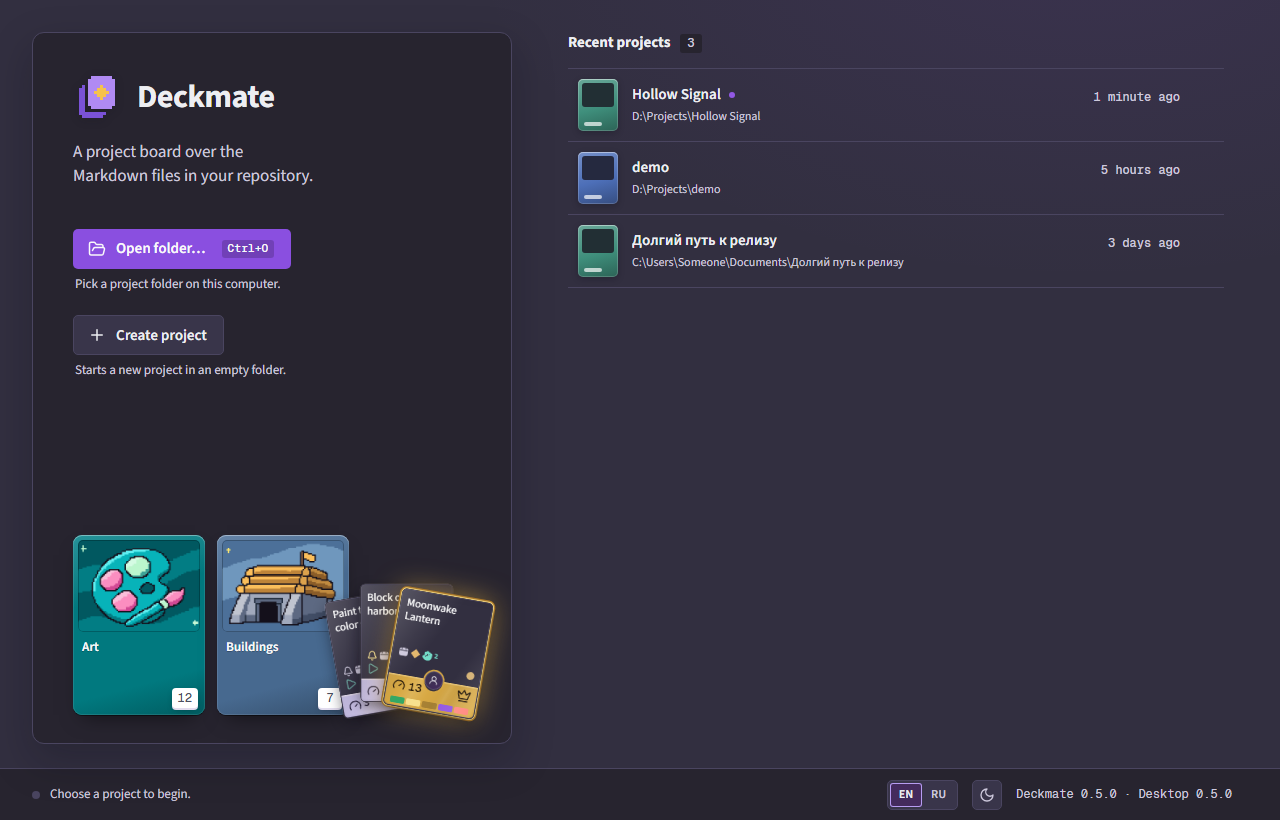
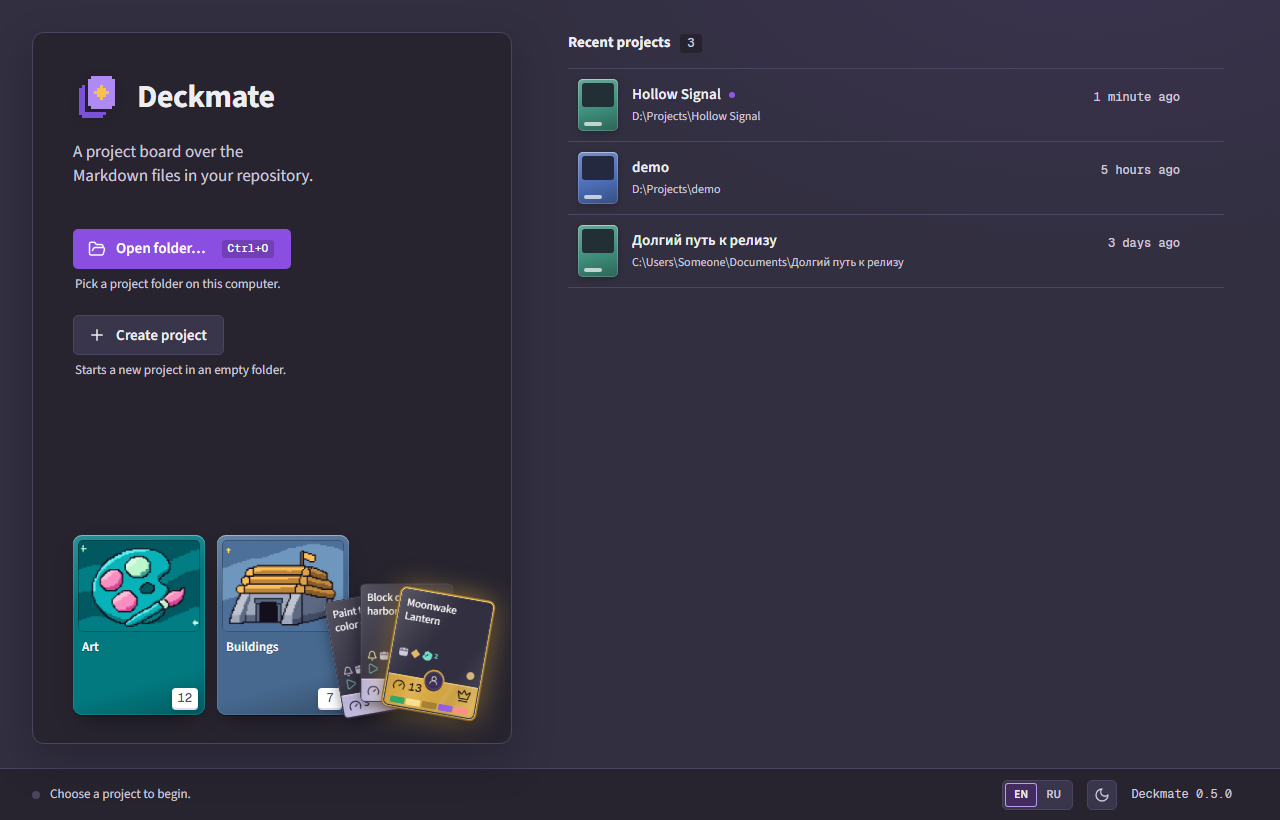
feat(desktop): What's new page for updates
The shell opens whats-new.html after an update and from Help. It asks the
shell for the changelog (whats_new_get), shows the sections newer than
the previous version up to the running one, newest first, renders a safe
Markdown subset with textContent only, and links to all changes on
GitHub. English and Russian texts share keys; outside Tauri a mock keeps
the page usable for review captures. The start screen and this page share
tokens.css. The README start-screen shot shows the single version.

Changed region(s): [[0.6875, 0.9451, 0.9375, 1.0]]

diff --git a/desktop/launcher/whats-new.js b/desktop/launcher/whats-new.js
@@ -1,0 +1,109 @@
+(() => {
+  'use strict';
+  const texts = {
+    en: { heading: version => `What's new in Deckmate ${version}`, since: version => `Since ${version}`, all: 'All changes on GitHub', empty: 'No changes found for this version range.', error: 'Could not load the changelog.' },
+    ru: { heading: version => `Что нового в Deckmate ${version}`, since: version => `Начиная с версии ${version}`, all: 'Все изменения на GitHub', empty: 'Для этого диапазона версий изменений не найдено.', error: 'Не удалось загрузить список изменений.' },
+  };
+
+  function parseChangelog(markdown) {
+    const sections = [];
+    let current = null;
+    for (const line of markdown.split(/\r?\n/)) {
+      const heading = /^##\s+\[([^\]]+)\](?:\s*-\s*(\d{4}-\d{2}-\d{2}))?\s*$/.exec(line);
+      if (heading) {
+        current = { version: heading[1], date: heading[2] || '', lines: [] };
+        sections.push(current);
+      } else if (/^##\s/.test(line)) current = null;
+      else if (current) current.lines.push(line);
+    }
+    return sections;
+  }
+
+  function versionParts(version) {
+    const match = /^(0|[1-9]\d*)\.(0|[1-9]\d*)\.(0|[1-9]\d*)(?:\+[0-9A-Za-z.-]+)?$/.exec(version);
+    return match ? match.slice(1, 4).map(BigInt) : null;
+  }
+  function compare(a, b) {
+    for (let i = 0; i < 3; i++) if (a[i] !== b[i]) return a[i] > b[i] ? 1 : -1;
+    return 0;
+  }
+  function pickSections(sections, from, to) {
+    const upper = versionParts(to);
+    const lower = from === null ? null : versionParts(from);
+    if (!upper || (from !== null && !lower)) return [];
+    return sections.map(section => ({ section, version: versionParts(section.version) }))
+      .filter(item => item.version && compare(item.version, upper) <= 0 && (lower ? compare(item.version, lower) > 0 : compare(item.version, upper) === 0))
+      .sort((a, b) => compare(b.version, a.version)).map(item => item.section);
+  }
+
+  function safeLink(url) {
+    try { const parsed = new URL(url); return parsed.protocol === 'https:' || parsed.protocol === 'http:'; } catch { return false; }
+  }
+  function renderInline(parent, text, doc) {
+    const pattern = /\*\*([^*]+)\*\*|`([^`]+)`|\[([^\]]+)\]\(([^\s)]+)\)/g;
+    let last = 0;
+    for (const match of text.matchAll(pattern)) {
+      parent.append(doc.createTextNode(text.slice(last, match.index)));
+      if (match[3] && !safeLink(match[4])) parent.append(doc.createTextNode(match[0]));
+      else {
+        const node = doc.createElement(match[1] ? 'strong' : match[2] ? 'code' : 'a');
+        node.textContent = match[1] || match[2] || match[3];
+        if (match[3]) node.href = match[4];
+        parent.append(node);
+      }
+      last = match.index + match[0].length;
+    }
+    parent.append(doc.createTextNode(text.slice(last)));
+  }
+  function renderSection(section, doc = document) {
+    const article = doc.createElement('section');
+    article.className = 'release';
+    const header = doc.createElement('div'); header.className = 'release-header';
+    const title = doc.createElement('h2'); title.textContent = section.version; header.append(title);
+    if (section.date) { const date = doc.createElement('time'); date.dateTime = section.date; date.textContent = section.date; header.append(date); }
+    article.append(header);
+    let list = null;
+    for (const line of section.lines) {
+      const heading = /^###\s+(.+)$/.exec(line);
+      const bullet = /^\s*[-*]\s+(.+)$/.exec(line);
+      if (heading) { list = null; const node = doc.createElement('h3'); renderInline(node, heading[1], doc); article.append(node); }
+      else if (bullet) {
+        if (!list) { list = doc.createElement('ul'); article.append(list); }
+        const item = doc.createElement('li'); renderInline(item, bullet[1], doc); list.append(item);
+      } else if (line.trim()) { list = null; const node = doc.createElement('p'); renderInline(node, line, doc); article.append(node); }
+    }
+    return article;
+  }
+  globalThis.DeckmateWhatsNew = { parseChangelog, pickSections, renderSection };
+
+  if (typeof window === 'undefined' || typeof document === 'undefined') return;
+  const mock = () => {
+    let language = 'en';
+    try { if (localStorage.getItem('deckmate-language') === 'ru') language = 'ru'; } catch {}
+    const changelog = language === 'ru' ? `## [0.5.0] - 2026-11-09\n### Добавлено\n- **Пространства.** Меняйте порядок пространств в заголовке или настройках.\n- **Hero вручную.** Отмечайте Hero без задач как завершённого.\n### Изменено\n- **Doc Cards.** Карточка документа выглядит как страница.\n## [0.4.0] - 2026-11-09\n### Добавлено\n- **Шаблоны на русском.** Шаблоны Journey и проектов теперь переведены.` : `## [0.5.0] - 2026-11-09\n### Added\n- **Spaces.** Reorder spaces in the header or space settings.\n- **Hero done by hand.** Mark a Hero without tasks as done.\n### Changed\n- **Doc Cards.** A Doc tile reads as a page.\n## [0.4.0] - 2026-11-09\n### Added\n- **Templates in Russian.** Journey and project templates now have Russian titles.`;
+    return { language, from: '0.3.0', to: '0.5.0', changelog, releasesUrl: 'https://github.com/pierkulakov/deckmate/releases' };
+  };
+  document.addEventListener('keydown', event => { if (event.key === 'Escape') window.close(); });
+  (async () => {
+    const root = document.getElementById('whats-new');
+    try {
+      const data = window.__TAURI_INTERNALS__ ? await window.__TAURI_INTERNALS__.invoke('whats_new_get') : mock();
+      const language = data.language === 'ru' ? 'ru' : 'en';
+      const t = texts[language];
+      document.documentElement.lang = language;
+      document.getElementById('heading').textContent = t.heading(data.to);
+      document.title = t.heading(data.to);
+      const since = document.getElementById('since');
+      if (data.from !== null) { since.textContent = t.since(data.from); since.hidden = false; }
+      const link = document.getElementById('releases');
+      link.textContent = t.all;
+      if (safeLink(data.releasesUrl)) link.href = data.releasesUrl;
+      const content = document.getElementById('content');
+      const sections = pickSections(parseChangelog(data.changelog), data.from, data.to);
+      if (sections.length) content.replaceChildren(...sections.map(section => renderSection(section)));
+      else { const empty = document.createElement('p'); empty.textContent = t.empty; content.append(empty); }
+    } catch {
+      document.getElementById('heading').textContent = texts.en.error;
+    } finally { root.removeAttribute('aria-busy'); }
+  })();
+})();

diff --git a/tools/launcher-capture.ts b/tools/launcher-capture.ts
@@ -12,9 +12,10 @@ import { openHeadlessBrowser, type HeadlessPage } from './layout-capture.ts';
 
 const here = path.dirname(fileURLToPath(import.meta.url));
 const pageUrl = pathToFileURL(path.join(here, '..', 'desktop', 'launcher', 'index.html')).href;
+const whatsNewUrl = pathToFileURL(path.join(here, '..', 'desktop', 'launcher', 'whats-new.html')).href;
 const output = path.join(here, '..', '.deckmate', 'launcher-shots');
 
-interface Frame { name: string; theme: 'dark' | 'light'; lang: 'en' | 'ru'; size: [number, number]; state?: 'empty' | 'error' | 'hover-row' | 'focus-open' | 'focus-row' }
+interface Frame { name: string; theme: 'dark' | 'light'; lang: 'en' | 'ru'; size: [number, number]; page?: 'whats-new'; state?: 'empty' | 'error' | 'hover-row' | 'focus-open' | 'focus-row' }
 
 const frames: Frame[] = [
   { name: 'dark-en-1280', theme: 'dark', lang: 'en', size: [1280, 820] },
@@ -28,6 +29,10 @@ const frames: Frame[] = [
   { name: 'dark-en-focus-open', theme: 'dark', lang: 'en', size: [1280, 820], state: 'focus-open' },
   { name: 'dark-en-focus-row', theme: 'dark', lang: 'en', size: [1280, 820], state: 'focus-row' },
   { name: 'light-ru-hover-row', theme: 'light', lang: 'ru', size: [1280, 820], state: 'hover-row' },
+  { name: 'whats-new-dark-en', theme: 'dark', lang: 'en', size: [760, 680], page: 'whats-new' },
+  { name: 'whats-new-dark-ru', theme: 'dark', lang: 'ru', size: [760, 680], page: 'whats-new' },
+  { name: 'whats-new-light-en', theme: 'light', lang: 'en', size: [760, 680], page: 'whats-new' },
+  { name: 'whats-new-light-ru', theme: 'light', lang: 'ru', size: [760, 680], page: 'whats-new' },
 ];
 
 // Every script sent to the page is a fixed string picked by key: nothing from the frame table is spliced into code.
@@ -80,16 +85,16 @@ async function pollPage(page: HeadlessPage, expression: string, timeoutMs: numbe
 }
 
 // The previous document may already report readyState 'complete', so a flag on the old page marks the wait as being for the new one.
-async function navigateAndWait(page: HeadlessPage, what: string): Promise<void> {
+async function navigateAndWait(page: HeadlessPage, what: string, url = pageUrl): Promise<void> {
   await page.evaluate('window.__deckmateCaptureOldDocument = true');
-  await page.send('Page.navigate', { url: pageUrl });
+  await page.send('Page.navigate', { url });
   const loaded = await pollPage(page, `!window.__deckmateCaptureOldDocument && document.readyState === 'complete'`, 10000);
   if (!loaded) throw new Error(`${what}: the launcher page did not finish loading within 10 s`);
 }
 
 // Waits until the launcher finished its first render and the fonts are loaded.
-async function waitForPageReady(page: HeadlessPage, frame: string): Promise<void> {
-  const busyCleared = await pollPage(page, `!document.getElementById('launcher').hasAttribute('aria-busy')`, 5000);
+async function waitForPageReady(page: HeadlessPage, frame: string, root = 'launcher'): Promise<void> {
+  const busyCleared = await pollPage(page, `!document.getElementById('${root}').hasAttribute('aria-busy')`, 5000);
   if (!busyCleared) throw new Error(`${frame}: the launcher is still aria-busy after 5 s`);
   await page.evaluate('document.fonts.ready.then(() => true)');
 }
@@ -114,12 +119,12 @@ async function captureFrame(page: HeadlessPage, frame: Frame, destination: strin
   // The settings are written on the loaded page; the reload below re-runs theme.js and launcher.js against them.
   await page.evaluate(scriptFor(THEME_SCRIPTS, frame.theme, 'theme'));
   await page.evaluate(scriptFor(LANG_SCRIPTS, frame.lang, 'language'));
-  await navigateAndWait(page, frame.name);
+  await navigateAndWait(page, frame.name, frame.page === 'whats-new' ? whatsNewUrl : pageUrl);
   await page.callFunction(INJECT_STYLE, NO_MOTION);
-  await waitForPageReady(page, frame.name);
+  await waitForPageReady(page, frame.name, frame.page === 'whats-new' ? 'whats-new' : 'launcher');
 
   const state = frame.state ?? 'list';
-  await page.evaluate(scriptFor(STATE_SCRIPTS, state, 'state'));
+  if (frame.page !== 'whats-new') await page.evaluate(scriptFor(STATE_SCRIPTS, state, 'state'));
   if (state === 'error') {
     const failed = await pollPage(page, `document.getElementById('status').dataset.phase === 'error'`, 4000);
     if (!failed) throw new Error(`${frame.name}: the status phase is not 'error' after 4 s`);

diff --git a/desktop/launcher/launcher.css b/desktop/launcher/launcher.css
@@ -1,54 +1,3 @@
-/* Deckmate desktop launcher. Tokens mirror client/styles.css (2026-11-08) so the screen reads as one app with the board. */
-@font-face { font-family: 'Source Sans 3'; src: url('fonts/SourceSans3-latin-wght.woff2') format('woff2-variations'); font-weight: 200 900; font-display: swap; unicode-range: U+0000-00FF,U+0131,U+0152-0153,U+02BB-02BC,U+02C6,U+02DA,U+02DC,U+0304,U+0308,U+0329,U+2000-206F,U+20AC,U+2122,U+2191,U+2193,U+2212,U+2215,U+FEFF,U+FFFD; }
-@font-face { font-family: 'Source Sans 3'; src: url('fonts/SourceSans3-cyrillic-wght.woff2') format('woff2-variations'); font-weight: 200 900; font-display: swap; unicode-range: U+0301,U+0400-045F,U+0490-0491,U+04B0-04B1,U+2116; }
-@font-face { font-family: 'Geist Mono'; src: url('fonts/GeistMono-Regular.ttf'); font-weight: 400; font-display: swap; }
-@font-face { font-family: 'Geist Mono'; src: url('fonts/GeistMono-Medium.ttf'); font-weight: 500; font-display: swap; }
-
-:root {
-  color-scheme: light;
-  --font-sans: 'Source Sans 3', sans-serif;
-  --font-mono: 'Geist Mono', monospace;
-  --canvas: #f4eef9; --surface: #fdfaff; --ground: #eee6f4; --sidebar: #e9e0f2;
-  --ink: #2f2440; --muted: #6b587b; --line: #d5c5e5; --hover: #e8d9f3;
-  --accent: #7443a6; --accent-button: #7443a6; --accent-hover: #5f338c; --accent-soft: #ecdaf8; --focus: #8251ba; --danger: #a63a5c;
-  --mark-back: #a184e0; --mark-front: #6538a3; --mark-pip: #e8ad2e;
-  --plum: #9c6acf; --champagne: #cb973c;
-  --shadow: 0 8px 28px #30243812;
-  --card-face: #ffffff; --card-edge: #cdc8dc; --card-metal: #c6bee3; --card-metal-ink: #2b2540; --doc-metal: #9bd4c7; --hero-metal: #e8c062; --metal-sheen: #fff8df;
-  --card-shadow: 0 5px 12px #18213624;
-  --card-hover-shadow: 0 9px 20px #18213638;
-  --button-ink: #fdfaff;
-  --panel: linear-gradient(160deg, color-mix(in srgb, var(--ground) 90%, var(--plum)), var(--ground) 55%, color-mix(in srgb, var(--ground) 94%, var(--champagne)));
-  --panel-shadow: 0 12px 32px #30243814;
-  --cover-window: #1c1a24; --cover-lift: 0 1px 0 rgb(48 36 56 / .2), 0 10px 20px -10px rgb(48 36 56 / .5);
-  --canvas-wash: radial-gradient(900px 500px at 85% -10%, color-mix(in srgb, var(--plum) 10%, transparent), transparent 70%);
-  --scroll-thumb: #b9a9cf; --scroll-track: transparent;
-  --ease-out: cubic-bezier(.16, 1, .3, 1);
-  --motion-feedback: 150ms;
-  --motion-material: 220ms;
-}
-:root.dark {
-  color-scheme: dark;
-  --canvas: #322f40; --surface: #39354a; --ground: #27242f; --sidebar: #1c1a24;
-  --ink: #edeef2; --muted: #cdc8dc; --line: #4a4560; --hover: #443f59;
-  /* 2026-11-08: white on the #9258e5 accent reaches 4.4:1; the button face darkens one step to #8a4fe0 (4.9:1), hover darker still. */
-  --accent: #9258e5; --accent-button: #8a4fe0; --accent-hover: #7d43d6; --accent-soft: #442b5d; --focus: #b79cf2; --danger: #ff8a80;
-  --mark-back: #7a52d6; --mark-front: #b08af3; --mark-pip: #f5c24c;
-  --plum: #9258e5; --champagne: #f7e18e;
-  --shadow: 0 10px 28px #0c0a1366;
-  /* The board's dark card face equals the canvas; the fan lifts it one step to --surface so the cards read on the page. */
-  --card-face: #39354a; --card-edge: #4a4560; --card-metal: #c6bee3; --card-metal-ink: #2b2540; --doc-metal: #9bd4c7; --hero-metal: #d8a944;
-  --card-shadow: 0 4px 12px #0c0a1366;
-  --card-hover-shadow: 0 6px 16px #0c0a1377;
-  --link-ink: #b79cf2;
-  --button-ink: #f9f9fa;
-  --panel: linear-gradient(var(--ground), var(--ground));
-  --panel-shadow: 0 16px 40px #0c0a1340;
-  --cover-lift: 0 1px 0 rgb(0 0 0 / .45), 0 10px 20px -10px rgb(0 0 0 / .6);
-  --canvas-wash: radial-gradient(900px 520px at 85% -10%, color-mix(in srgb, var(--accent) 9%, transparent), transparent 70%);
-  --scroll-thumb: #66718a; --scroll-track: #222838;
-}
-
 * { box-sizing: border-box; }
 /* 2026-11-09: class display rules (.status .link is inline-flex) beat the UA [hidden] rule, so the retry link showed while idle. */
 [hidden] { display: none !important; }

diff --git a/desktop/launcher/tokens.css b/desktop/launcher/tokens.css
@@ -1,0 +1,51 @@
+/* Deckmate desktop launcher. Tokens mirror client/styles.css (2026-11-08) so the screen reads as one app with the board. */
+@font-face { font-family: 'Source Sans 3'; src: url('fonts/SourceSans3-latin-wght.woff2') format('woff2-variations'); font-weight: 200 900; font-display: swap; unicode-range: U+0000-00FF,U+0131,U+0152-0153,U+02BB-02BC,U+02C6,U+02DA,U+02DC,U+0304,U+0308,U+0329,U+2000-206F,U+20AC,U+2122,U+2191,U+2193,U+2212,U+2215,U+FEFF,U+FFFD; }
+@font-face { font-family: 'Source Sans 3'; src: url('fonts/SourceSans3-cyrillic-wght.woff2') format('woff2-variations'); font-weight: 200 900; font-display: swap; unicode-range: U+0301,U+0400-045F,U+0490-0491,U+04B0-04B1,U+2116; }
+@font-face { font-family: 'Geist Mono'; src: url('fonts/GeistMono-Regular.ttf'); font-weight: 400; font-display: swap; }
+@font-face { font-family: 'Geist Mono'; src: url('fonts/GeistMono-Medium.ttf'); font-weight: 500; font-display: swap; }
+
+:root {
+  color-scheme: light;
+  --font-sans: 'Source Sans 3', sans-serif;
+  --font-mono: 'Geist Mono', monospace;
+  --canvas: #f4eef9; --surface: #fdfaff; --ground: #eee6f4; --sidebar: #e9e0f2;
+  --ink: #2f2440; --muted: #6b587b; --line: #d5c5e5; --hover: #e8d9f3;
+  --accent: #7443a6; --accent-button: #7443a6; --accent-hover: #5f338c; --accent-soft: #ecdaf8; --focus: #8251ba; --danger: #a63a5c;
+  --mark-back: #a184e0; --mark-front: #6538a3; --mark-pip: #e8ad2e;
+  --plum: #9c6acf; --champagne: #cb973c;
+  --shadow: 0 8px 28px #30243812;
+  --card-face: #ffffff; --card-edge: #cdc8dc; --card-metal: #c6bee3; --card-metal-ink: #2b2540; --doc-metal: #9bd4c7; --hero-metal: #e8c062; --metal-sheen: #fff8df;
+  --card-shadow: 0 5px 12px #18213624;
+  --card-hover-shadow: 0 9px 20px #18213638;
+  --button-ink: #fdfaff;
+  --panel: linear-gradient(160deg, color-mix(in srgb, var(--ground) 90%, var(--plum)), var(--ground) 55%, color-mix(in srgb, var(--ground) 94%, var(--champagne)));
+  --panel-shadow: 0 12px 32px #30243814;
+  --cover-window: #1c1a24; --cover-lift: 0 1px 0 rgb(48 36 56 / .2), 0 10px 20px -10px rgb(48 36 56 / .5);
+  --canvas-wash: radial-gradient(900px 500px at 85% -10%, color-mix(in srgb, var(--plum) 10%, transparent), transparent 70%);
+  --scroll-thumb: #b9a9cf; --scroll-track: transparent;
+  --ease-out: cubic-bezier(.16, 1, .3, 1);
+  --motion-feedback: 150ms;
+  --motion-material: 220ms;
+}
+:root.dark {
+  color-scheme: dark;
+  --canvas: #322f40; --surface: #39354a; --ground: #27242f; --sidebar: #1c1a24;
+  --ink: #edeef2; --muted: #cdc8dc; --line: #4a4560; --hover: #443f59;
+  /* 2026-11-08: white on the #9258e5 accent reaches 4.4:1; the button face darkens one step to #8a4fe0 (4.9:1), hover darker still. */
+  --accent: #9258e5; --accent-button: #8a4fe0; --accent-hover: #7d43d6; --accent-soft: #442b5d; --focus: #b79cf2; --danger: #ff8a80;
+  --mark-back: #7a52d6; --mark-front: #b08af3; --mark-pip: #f5c24c;
+  --plum: #9258e5; --champagne: #f7e18e;
+  --shadow: 0 10px 28px #0c0a1366;
+  /* The board's dark card face equals the canvas; the fan lifts it one step to --surface so the cards read on the page. */
+  --card-face: #39354a; --card-edge: #4a4560; --card-metal: #c6bee3; --card-metal-ink: #2b2540; --doc-metal: #9bd4c7; --hero-metal: #d8a944;
+  --card-shadow: 0 4px 12px #0c0a1366;
+  --card-hover-shadow: 0 6px 16px #0c0a1377;
+  --link-ink: #b79cf2;
+  --button-ink: #f9f9fa;
+  --panel: linear-gradient(var(--ground), var(--ground));
+  --panel-shadow: 0 16px 40px #0c0a1340;
+  --cover-lift: 0 1px 0 rgb(0 0 0 / .45), 0 10px 20px -10px rgb(0 0 0 / .6);
+  --canvas-wash: radial-gradient(900px 520px at 85% -10%, color-mix(in srgb, var(--accent) 9%, transparent), transparent 70%);
+  --scroll-thumb: #66718a; --scroll-track: #222838;
+}
+

diff --git a/tests/whats-new.test.ts b/tests/whats-new.test.ts
@@ -1,0 +1,50 @@
+import { readFileSync } from 'node:fs';
+import { runInNewContext } from 'node:vm';
+import { describe, expect, it } from 'vitest';
+
+type Section = { version: string; date: string; lines: string[] };
+class Node {
+  children: Node[] = [];
+  textContent = '';
+  className = '';
+  href = '';
+  dateTime = '';
+  constructor(public tag: string) {}
+  append(...nodes: Node[]) { this.children.push(...nodes); }
+}
+const documentShim = {
+  createElement: (tag: string) => new Node(tag),
+  createTextNode: (text: string) => { const node = new Node('#text'); node.textContent = text; return node; },
+};
+const context = { URL } as { URL: typeof URL; DeckmateWhatsNew?: { parseChangelog: (text: string) => Section[]; pickSections: (sections: Section[], from: string | null, to: string) => Section[]; renderSection: (section: Section, doc: typeof documentShim) => Node } };
+runInNewContext(readFileSync('desktop/launcher/whats-new.js', 'utf8'), context);
+const { parseChangelog, pickSections, renderSection } = context.DeckmateWhatsNew!;
+const versions = (sections: Section[]) => Array.from(sections, section => section.version);
+
+describe('What’s new changelog', () => {
+  const markdown = '# Changelog\n## [Unreleased]\n- draft\n## [1.2.0] - 2026-11-09\n### Added\n- **Title.** Text\n## [1.10.0] - 2026-11-10\n### Fixed\n- Fix\n## [1.5.0-rc.1] - 2026-11-09\n- prerelease\n## [2.0.0] - 2026-11-11\n- future';
+  const sections = parseChangelog(markdown);
+  it('parses release headings, dates and body without merging sections', () => {
+    expect(versions(sections)).toEqual(['Unreleased', '1.2.0', '1.10.0', '1.5.0-rc.1', '2.0.0']);
+    expect(sections[1].date).toBe('2026-11-09');
+    expect(Array.from(sections[1].lines)).toEqual(['### Added', '- **Title.** Text']);
+  });
+  it('selects stable SemVer releases in descending order and excludes bounds appropriately', () => {
+    expect(versions(pickSections(sections, '1.0.0', '1.10.0'))).toEqual(['1.10.0', '1.2.0']);
+    expect(versions(pickSections(sections, '1.2.0', '1.10.0'))).toEqual(['1.10.0']);
+    expect(versions(pickSections(sections, null, '1.2.0'))).toEqual(['1.2.0']);
+    expect(versions(pickSections(sections, null, '1.3.0'))).toEqual([]);
+    expect(versions(pickSections(sections, 'unknown', '1.10.0'))).toEqual([]);
+    expect(versions(pickSections(sections, null, '1.5.0-rc.1'))).toEqual([]);
+  });
+  it('renders HTML as text and rejects unsafe links', () => {
+    const section = parseChangelog('## [1.0.0] - 2026-01-01\n### <img src=x>\n- **Hello** <script>alert(1)</script> [bad](javascript:alert) [good](https://example.com) `code`')[0];
+    const node = renderSection(section, documentShim);
+    const flatten = (n: Node): Node[] => [n, ...n.children.flatMap(flatten)];
+    const nodes = flatten(node);
+    expect(nodes.some(n => n.tag === 'img' || n.tag === 'script')).toBe(false);
+    expect(nodes.map(n => n.textContent).join('')).toContain('<script>alert(1)</script>');
+    expect(nodes.filter(n => n.tag === 'a').map(n => n.href)).toEqual(['https://example.com']);
+    expect(nodes.some(n => n.tag === 'strong' && n.textContent === 'Hello')).toBe(true);
+  });
+});

diff --git a/desktop/launcher/whats-new.css b/desktop/launcher/whats-new.css
@@ -1,0 +1,28 @@
+* { box-sizing: border-box; }
+[hidden] { display: none !important; }
+html, body { min-height: 100%; margin: 0; }
+body { font: 15px/1.55 var(--font-sans); font-synthesis: none; color: var(--ink); background: var(--canvas) var(--canvas-wash); -webkit-font-smoothing: antialiased; }
+::selection { background: var(--accent-soft); color: var(--ink); }
+:focus-visible { outline: 2px solid var(--focus); outline-offset: 3px; }
+.page { max-width: 760px; min-height: 100vh; margin: auto; padding: 32px 40px 0; display: flex; flex-direction: column; }
+.intro { padding: 24px 28px; border: 1px solid var(--line); border-radius: 12px; background: var(--panel); box-shadow: var(--panel-shadow); }
+.brand { display: flex; align-items: center; gap: 10px; font-size: 16px; font-weight: 700; }
+.mark { width: 28px; height: 28px; flex: none; }
+.mark-back { fill: var(--mark-back); } .mark-front { fill: var(--mark-front); } .mark-pip { fill: var(--mark-pip); }
+h1 { margin: 15px 0 0; font-size: 28px; line-height: 1.2; letter-spacing: -.02em; }
+.intro p { margin: 5px 0 0; color: var(--muted); }
+.content { flex: 1; padding: 8px 4px 24px; overflow-wrap: anywhere; }
+.release { padding: 24px 0 8px; border-bottom: 1px solid var(--line); }
+.release-header { display: flex; flex-wrap: wrap; align-items: baseline; gap: 12px; }
+.release h2 { margin: 0; font: 500 16px/1.4 var(--font-mono); }
+.release time { color: var(--muted); font: 400 12px/1.4 var(--font-mono); }
+.release h3 { margin: 16px 0 6px; font-size: 16px; }
+.release ul { margin: 0; padding-left: 22px; }
+.release li { padding-left: 2px; margin: 5px 0; }
+.release p { margin: 8px 0; }
+code { font-family: var(--font-mono); font-size: .88em; background: var(--ground); border-radius: 3px; padding: 1px 4px; }
+a { color: var(--link-ink, var(--accent)); text-decoration: underline; text-underline-offset: 3px; }
+a:hover { color: var(--accent-hover); }
+:root.dark a:hover { color: var(--ink); }
+.footer { padding: 18px 4px 24px; border-top: 1px solid var(--line); }
+@media (max-width: 480px) { .page { padding: 20px 20px 0; } .intro { padding: 20px; } h1 { font-size: 24px; } }

diff --git a/desktop/launcher/whats-new.html b/desktop/launcher/whats-new.html
@@ -1,0 +1,24 @@
+<!doctype html>
+<html lang="en" class="dark">
+<head>
+  <meta charset="utf-8">
+  <meta name="viewport" content="width=device-width, initial-scale=1">
+  <meta http-equiv="Content-Security-Policy" content="default-src 'self'; style-src 'self' 'unsafe-inline'; img-src 'self' data:; font-src 'self'; object-src 'none'; base-uri 'none'; form-action 'none'">
+  <title>Deckmate</title>
+  <link rel="stylesheet" href="tokens.css">
+  <link rel="stylesheet" href="whats-new.css">
+  <script src="theme.js"></script>
+</head>
+<body>
+  <main class="page" id="whats-new" aria-busy="true">
+    <header class="intro">
+      <div class="brand"><svg class="mark" viewBox="0 0 16 16" shape-rendering="crispEdges" aria-hidden="true"><path class="mark-back" d="M3 4H4V13H11V14H10V15H3V14H2V5H3Z"/><path class="mark-front" d="M6 1H13V2H14V11H13V12H6V11H5V2H6Z"/><path class="mark-pip" d="M9 4H10V5H11V6H12V7H11V8H10V9H9V8H8V7H7V6H8V5H9Z"/></svg><span>Deckmate</span></div>
+      <h1 id="heading"></h1>
+      <p id="since" hidden></p>
+    </header>
+    <div class="content" id="content" aria-live="polite"></div>
+    <footer class="footer"><a id="releases"></a></footer>
+  </main>
+  <script src="whats-new.js"></script>
+</body>
+</html>

diff --git a/desktop/launcher/index.html b/desktop/launcher/index.html
@@ -5,6 +5,7 @@
   <meta name="viewport" content="width=device-width, initial-scale=1">
   <meta http-equiv="Content-Security-Policy" content="default-src 'self'; style-src 'self' 'unsafe-inline'; img-src 'self' data:; font-src 'self'; object-src 'none'; base-uri 'none'; form-action 'none'">
   <title>Deckmate</title>
+  <link rel="stylesheet" href="tokens.css">
   <link rel="stylesheet" href="launcher.css">
   <script src="theme.js"></script>
 </head>
